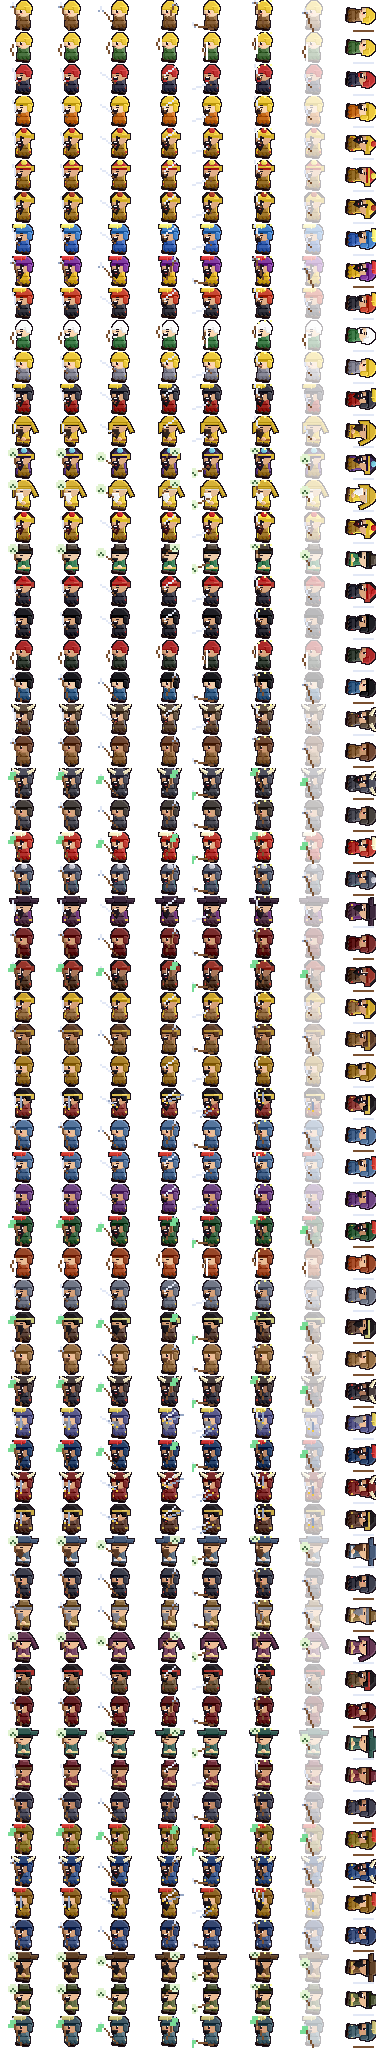
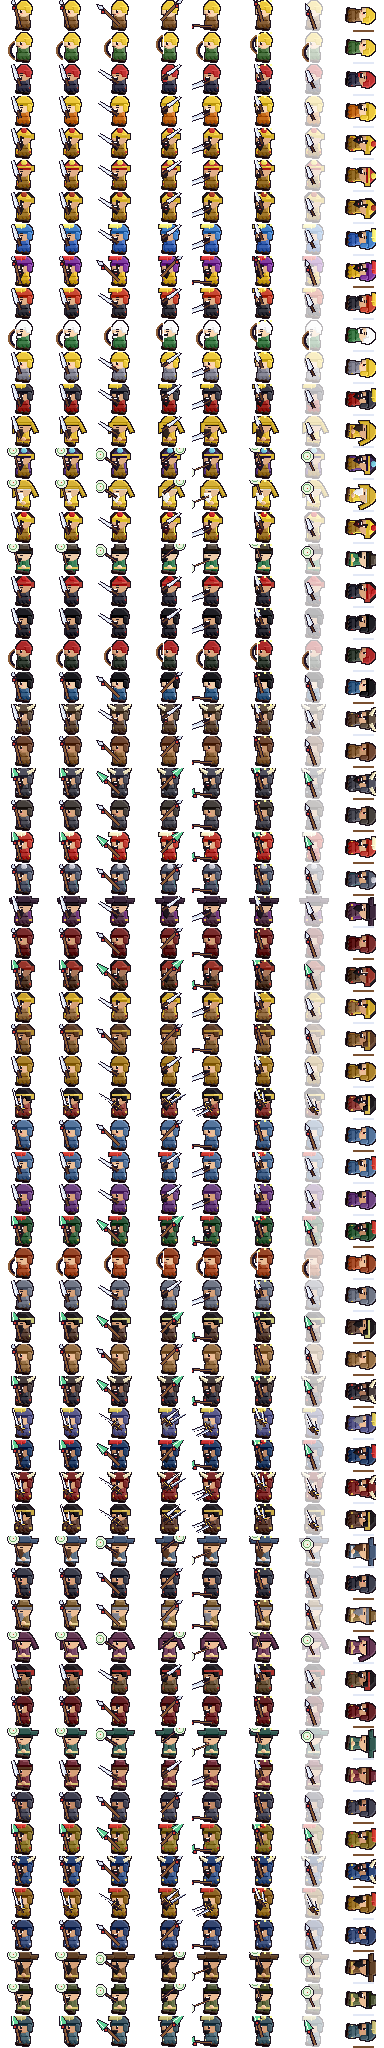
v0.58.2: Weapons painted into battle sprites; fix Runan chapter-1 houses
- Remove the oversized overlay weapon; every party character now has a battle sprite row with a weapon drawn on the body (twin swords, glaive, serpent spear, fan, halberd)
- Rename chapter-1 Runan houses so chapter-4 houses no longer overwrite them

Claude-Session: https://claude.ai/code/session_01JiiwSTohZdt9gnXnKPj9ao

diff --git a/src/battle_scene.js b/src/battle_scene.js
@@ -463,7 +463,6 @@ const CMDS = ['攻擊', '計謀', '道具', '全體攻擊', '防禦', '逃跑', 
         if (hurt && !dead) frame = 6;
         if (dead) frame = 7;
         { const k = E.images.benemy_hd ? 2 : 1; wc.drawImage(E.images.benemy_hd || E.images.benemy16, frame * 24 * k, e.sprite * 16 * k, 24 * k, 16 * k, e.x + dx, e.y, 24, 16); }
-        drawHeldWeapon(wc, e, e.x + dx + 5, e.y + 9, true, dead);
         wc.globalAlpha = 1;
         if (!dead) self.statusFx(wc, e, e.x + 12 + dx, e.y);
       });
@@ -528,7 +527,7 @@ const CMDS = ['攻擊', '計謀', '道具', '全體攻擊', '防禦', '逃跑', 
       }
       if (hurt && !dead) frame = 6;
       if (dead) frame = 7;
-      const row = BATTLE_ROW[u.id];
+      const row = (window.DATA.battleRow || BATTLE_ROW)[u.id];
       if (row !== undefined) {
         const k = E.images.bparty_hd ? 2 : 1;
         wc.drawImage(E.images.bparty_hd || E.images.bparty16, frame * 24 * k, row * 16 * k, 24 * k, 16 * k, u.x + sx + off, u.y, 24, 16);
@@ -538,7 +537,7 @@ const CMDS = ['攻擊', '計謀', '道具', '全體攻擊', '防禦', '逃跑', 
         wc.drawImage(E.images.sprites_hd || E.images.sprites, ((cmd || an) ? 7 : 6) * k2, u.ref.sprite * k2, k2, k2, u.x + sx + off, u.y, 16, 16);
         wc.globalAlpha = 1;
       }
-      drawHeldWeapon(wc, u, u.x + (row !== undefined ? 18 : 12) + sx + off, u.y + 9, false, dead);
+      if (row === undefined) drawHeldWeapon(wc, u, u.x + 12 + sx + off, u.y + 9, false, dead);   // 武器已經畫在戰鬥小人身上；只有沒有專屬戰鬥小人的人才疊上武器
       this.statusFx(wc, u, u.x + 12 + off + sx, u.y);
       if (an && an.kind === 'cast' && !dead) {   // 施法光圈
         const r = 4 + an.t / 60;

diff --git a/tests/houses_test.js b/tests/houses_test.js
@@ -37,9 +37,8 @@ const sleep = ms => new Promise(r => setTimeout(r, ms));
     return bad;
   });
   check('house doors are not shadowed by older warp entries', conflicts.length === 0, conflicts);
-  check('chapter 1 Runan map is isolated from chapter 4 Runan houses',
-    !(DATA.maps.runan_ch1.warps || []).some(w => /^runan_h\\d+$/.test(w.to)),
-    (DATA.maps.runan_ch1.warps || []).filter(w => /^runan_h\\d+$/.test(w.to)).map(w => w.to));
+  const ch1Leak = await page.evaluate(() => { const w = DATA.maps.runan_ch1.warps || []; return { leak: w.filter(x => /^runan_h\d+$/.test(x.to)).map(x => x.to), ok: w.filter(x => /^runan_ch1_h\d+$/.test(x.to)).every(x => DATA.maps[x.to] && DATA.maps[x.to].warps.every(y => y.to === 'runan_ch1')) }; });
+  check('chapter 1 Runan map is isolated from chapter 4 Runan houses', ch1Leak.leak.length === 0 && ch1Leak.ok, ch1Leak);
   // 走進門
   await go('changshe', 5, 6, 'up'); await sleep(200); await tap('ArrowUp', 90, 900);
   let g = await G(); check('door of the scholar house really opens', g.map === 'changshe_h0', g.map);

diff --git a/tests/interior_test.js b/tests/interior_test.js
@@ -37,6 +37,7 @@ const check = (n, ok, x) => { ok ? pass++ : fail++; console.log((ok ? 'PASS ' : 
     const inn = D.dialogue.inn_chenliu_inn[0].choices.map(c => c.label).join('|');
     o.innChoices = inn; o.hasSave = /存檔/.test(inn) && /招收/.test(inn);
     o.noOfficer = !Object.keys(D.maps).some(k => (D.maps[k].npcs || []).some(n => n.id === 'hall_officer'));
+    o.noRow = Object.keys(D.characters).filter(k => typeof D.battleRow[k] !== 'number');
     return o;
   });
   check('no save crystals', r.saveLeft.length === 0, r.saveLeft);
@@ -46,6 +47,7 @@ const check = (n, ok, x) => { ok ? pass++ : fail++; console.log((ok ? 'PASS ' : 
   check('every town has inn', r.noInn.length === 0, r.noInn);
   check('inn has save + hall', r.hasSave, r.innChoices);
   check('no hall officer', r.noOfficer);
+  check('every character has a battle sprite row with weapon', r.noRow.length === 0, r.noRow);
   check('no errors', errors.length === 0, errors);
   console.log(pass + ' passed, ' + fail + ' failed'); await br.close(); process.exit(fail ? 1 : 0);
 })();

diff --git a/data/ch4world.js b/data/ch4world.js
@@ -3,6 +3,12 @@
   const D = window.DATA;
   D.maps.runan_ch1 = D.maps.runan;
   D.maps.wancheng.home = {map: "runan_ch1"};
+  Object.keys(D.maps).filter(k => /^runan_h\d+$/.test(k)).forEach(k => {   // 第一章汝南的房屋改名，避免被第四章同名房屋蓋掉
+    const nk = k.replace("runan", "runan_ch1"), hm = D.maps[k];
+    hm.warps.forEach(w => { if (w.to === "runan") w.to = "runan_ch1"; });
+    D.maps.runan_ch1.warps.forEach(w => { if (w.to === k) w.to = nk; });
+    D.maps[nk] = hm; delete D.maps[k];
+  });
   D.townIds.push("runan_ch1");
   D.worldTowns.runan_ch1 = {x: 80, y: 66, world: "world"};
   D.worldGarrison.runan_ch1 = {flag: "pengtuo_down", banner: "yellow"};

diff --git a/data/battle_rows.js b/data/battle_rows.js
@@ -1,0 +1,2 @@
+// 由 tools/build_char_hd.py 產生：我方人物在 battle_party_hd.png 的列序
+window.DATA.battleRow = {"nyao": 0, "liubei": 1, "guanyu": 2, "zhangfei": 3, "caocao": 4, "luzhi": 5, "zoujing": 6, "dianwei": 7, "xuyou": 8, "zhanghe": 9, "chengyuanzhi": 10, "qushuai": 11, "bocai": 12, "pengtuo": 13, "zhaohong": 14, "hanzhong": 15, "busi": 16, "zhangliang": 17, "zhangbao": 18, "zhangjiao": 19, "duyou": 20, "zhangyan": 21, "zhangchun": 22, "huaxiong": 23, "lubu": 24, "xurong": 25, "zhangkai": 26, "houcheng": 27, "songxian": 28, "chezhou": 29, "yanliang": 30, "wenchou": 31, "gaoshun": 32, "caoren": 33, "shenpei": 34};

diff --git a/index.html b/index.html
@@ -44,6 +44,7 @@
 <script src="data/fx64.js"></script>
 <script src="data/recruit.js"></script>
 <script src="data/inn_patch.js"></script>
+<script src="data/battle_rows.js"></script>
 <script src="data/recruit_skills.js"></script>
 <script src="data/skills_late.js"></script>
 <script src="data/wildgen.js"></script>

diff --git a/src/version.js b/src/version.js
@@ -1,3 +1,3 @@
 // 遊戲版本號。發佈新版時，這裡與 package.json 的 version 必須一起改成相同的值。
-window.GAME_VERSION = '0.58.1';
+window.GAME_VERSION = '0.58.2';
 window.GAME_REPO = 'defance16042-lgtm/chuanyue-sanguo';

diff --git a/tools/weapons_hd.py b/tools/weapons_hd.py
@@ -1,0 +1,100 @@
+"""高清手持武器：直接用 48x32 的格子畫（有輪廓、受光面），武器是人物身上畫好的一部分。
+weapon_hd(draw, kind, grip, tip)：grip／tip 用 24x16 的格內座標（和 build_battle16.POSE 相同），內部放大 2 倍。
+kind：sword sabre swords glaive spear lance halberd fan bow"""
+import math
+
+W_OL = (30, 18, 38, 255)
+W_WOOD, W_WOOD2 = (140, 92, 54, 255), (96, 60, 36, 255)
+W_STEEL, W_STEEL2, W_HI = (214, 224, 240, 255), (136, 154, 188, 255), (255, 255, 255, 255)
+W_GOLD, W_RED, W_JADE = (244, 206, 70, 255), (214, 56, 48, 255), (96, 210, 150, 255)
+
+
+def _pt(a, b, s):
+    return (a[0] + (b[0] - a[0]) * s, a[1] + (b[1] - a[1]) * s)
+
+
+def _unit(a, b):
+    dx, dy = b[0] - a[0], b[1] - a[1]
+    n = math.hypot(dx, dy) or 1
+    return dx / n, dy / n
+
+
+def _shaft(d, a, b, w=2):
+    d.line([a, b], fill=W_OL, width=w + 2)
+    d.line([a, b], fill=W_WOOD, width=w)
+
+
+def _blade(d, p0, p1, w0, w1, col, hi):
+    ux, uy = _unit(p0, p1); nx, ny = -uy, ux
+    pts = [(p0[0] + nx * w0, p0[1] + ny * w0), (p1[0] + nx * w1, p1[1] + ny * w1),
+           (p1[0] - nx * w1, p1[1] - ny * w1), (p0[0] - nx * w0, p0[1] - ny * w0)]
+    d.polygon(pts, fill=col, outline=W_OL)
+    d.line([(p0[0] + nx * w0 * 0.3, p0[1] + ny * w0 * 0.3), (p1[0] + nx * w1 * 0.3, p1[1] + ny * w1 * 0.3)], fill=hi, width=1)
+
+
+def _sword(d, g, t, col=W_STEEL):
+    ux, uy = _unit(g, t); nx, ny = -uy, ux
+    _blade(d, g, t, 1.6, 0.6, col, W_HI)
+    d.line([(g[0] + nx * 3, g[1] + ny * 3), (g[0] - nx * 3, g[1] - ny * 3)], fill=W_OL, width=3)
+    d.line([(g[0] + nx * 2.4, g[1] + ny * 2.4), (g[0] - nx * 2.4, g[1] - ny * 2.4)], fill=W_GOLD, width=1)
+    h = (g[0] - ux * 4, g[1] - uy * 4)
+    d.line([g, h], fill=W_OL, width=3); d.line([g, h], fill=W_WOOD2, width=2)
+
+
+def _pole(d, g, t):
+    ux, uy = _unit(g, t)
+    butt = (g[0] - ux * 6, g[1] + 8)
+    top = (t[0] + ux * 2, t[1] + uy * 2)
+    _shaft(d, butt, top, 2)
+    return butt, top, ux, uy
+
+
+def _tassel(d, p):
+    d.rectangle([p[0] - 1.5, p[1] + 1, p[0] + 1.5, p[1] + 4], fill=W_RED, outline=W_OL)
+
+
+def weapon_hd(d, kind, grip, tip):
+    g = (grip[0] * 2, grip[1] * 2); t = (tip[0] * 2, tip[1] * 2)
+    ux, uy = _unit(g, t); nx, ny = -uy, ux
+    if kind == "sword":
+        _sword(d, g, (t[0] + ux * 3, t[1] + uy * 3))
+    elif kind == "swords":            # 雙股劍：兩把一前一後
+        _sword(d, (g[0] - 4, g[1] + 3), (t[0] - 7, t[1] + 4), W_STEEL2)
+        _sword(d, g, (t[0] + ux * 3, t[1] + uy * 3))
+    elif kind == "sabre":             # 大刀：寬刃
+        b = (g[0] + ux * 3, g[1] + uy * 3)
+        e = (g[0] - ux * 4, g[1] - uy * 4)
+        d.line([e, b], fill=W_OL, width=4); d.line([e, b], fill=W_WOOD2, width=2)
+        _blade(d, b, (t[0] + ux * 3, t[1] + uy * 3), 2.4, 1.4, W_STEEL, W_HI)
+    elif kind == "glaive":            # 青龍偃月刀：長柄、寬大的偃月刃、紅纓
+        butt, top, ux, uy = _pole(d, g, t)
+        bs = _pt(butt, top, 0.72)
+        _blade(d, bs, (top[0] + ux * 4, top[1] + uy * 4), 4.2, 1.2, W_JADE, W_HI)
+        _tassel(d, bs)
+    elif kind in ("spear", "lance"):  # 蛇矛／長槍：長柄加葉形矛頭、紅纓
+        butt, top, ux, uy = _pole(d, g, t)
+        head = _pt(butt, top, 0.84)
+        w, f = (2.4, 3) if kind == "spear" else (2, 2)
+        pts = [head, (head[0] + nx * w + ux * f, head[1] + ny * w + uy * f), (top[0] + ux * 5, top[1] + uy * 5), (head[0] - nx * w + ux * f, head[1] - ny * w + uy * f)]
+        d.polygon(pts, fill=W_STEEL, outline=W_OL)
+        d.point(_pt(head, top, 0.6), fill=W_HI)
+        _tassel(d, head)
+    elif kind == "halberd":           # 方天畫戟：矛尖加兩側月牙刃
+        butt, top, ux, uy = _pole(d, g, t)
+        head = _pt(butt, top, 0.8)
+        d.polygon([head, (top[0] + ux * 4, top[1] + uy * 4), (head[0] + nx * 2, head[1] + ny * 2)], fill=W_STEEL, outline=W_OL)
+        for sgn in (1, -1):
+            d.polygon([(head[0] + sgn * nx * 5 - ux * 2, head[1] + sgn * ny * 5 - uy * 2), (head[0] + sgn * nx, head[1] + sgn * ny + uy * 2), (head[0] - sgn * nx, head[1] - sgn * ny)], fill=W_STEEL2, outline=W_OL)
+        _tassel(d, head)
+    elif kind == "fan":               # 羽扇：握柄加圓形扇面
+        c = (t[0] + ux * 2, t[1] + uy * 2)
+        e = (g[0] - ux * 3, g[1] - uy * 3)
+        d.line([e, c], fill=W_OL, width=3); d.line([e, c], fill=W_WOOD, width=1)
+        d.ellipse([c[0] - 6, c[1] - 6, c[0] + 6, c[1] + 6], fill=(236, 246, 224, 255), outline=W_OL)
+        d.ellipse([c[0] - 3.5, c[1] - 3.5, c[0] + 3.5, c[1] + 3.5], outline=(110, 170, 110, 255))
+        d.point(c, fill=W_RED)
+    elif kind == "bow":
+        c = (g[0] + 2, g[1])
+        d.arc([c[0] - 7, c[1] - 9, c[0] + 7, c[1] + 9], 270, 90, fill=W_OL, width=4)
+        d.arc([c[0] - 7, c[1] - 9, c[0] + 7, c[1] + 9], 270, 90, fill=W_WOOD, width=2)
+        d.line([(c[0], c[1] - 9), (c[0], c[1] + 9)], fill=W_HI, width=1)

diff --git a/tools/build_char_hd.py b/tools/build_char_hd.py
@@ -12,6 +12,7 @@ import build_assets as BA
 import build_battle16 as BB
 import build_zhoucang as ZC
 import recruit_chars as RCH
+from weapons_hd import weapon_hd
 from char_styles import STYLES
 
 ROOT = Path(__file__).resolve().parents[1]
@@ -341,7 +342,7 @@ def row_frames_hd(kw, kind):
             body = base[0].rotate(90, expand=True)
             cell.alpha_composite(body, (8, 0))
             d = ImageDraw.Draw(cell)
-            col = BB.WOOD if kind in ("glaive", "spear") else BB.STEEL
+            col = BB.WOOD if kind in ("glaive", "spear", "lance", "halberd") else BB.STEEL
             d.line([(10, 30), (30, 30)], fill=col, width=2)
             cells.append(cell); continue
         grip, tip, dx = BB.POSE[frame] if frame in BB.POSE else BB.POSE[0]
@@ -349,10 +350,9 @@ def row_frames_hd(kw, kind):
         if frame == 6:
             body = BB.flash(body)
         cell.alpha_composite(body, (8 + dx * 2, 0))
-        # 武器先畫在 24x16 的暫存圖，放大 2 倍後疊上去（線條變成 2px 粗，跟高清身體相稱）
+        weapon_hd(ImageDraw.Draw(cell), kind, (grip[0] + dx, grip[1]), (tip[0] + dx, tip[1]))
         wp = Image.new("RGBA", (BB.CW, BB.CH), (0, 0, 0, 0))
         wd = ImageDraw.Draw(wp)
-        BB.weapon(wd, kind, grip, tip, frame)
         if frame == 4:
             wd.arc([12, 1, 28, 17], 300, 70, fill=BB.WHITE, width=1)
         if frame == 5:
@@ -384,9 +384,25 @@ def battle_sheet(rows, mirror=False):
     return out
 
 
+KIND_OF = {"劍": "sword", "刀": "sabre", "矛": "spear", "槍": "lance", "扇": "fan"}
+KIND_OVERRIDE = {"nyao": "fan", "liubei": "swords", "guanyu": "glaive", "zhangfei": "spear", "lubu": "halberd", "dianwei": "halberd"}
+
+
+def party_sheet():
+    """我方戰鬥小人：每位可入隊的人物一列（外觀跟地圖小人一致，武器直接畫在身上）。
+    列序＝data/battle_rows.js 的 D.battleRow；人物清單在 tools/party_chars.json（id -> [地圖列, 武器種類]）。"""
+    import json
+    chars = json.load(open(ROOT / "tools" / "party_chars.json", encoding="utf8"))
+    rows_kw = [styled(n, kw) for n, kw in BA.CHARACTERS] + [styled('zhoucang', ZC.KW)] + [styled(i, k) for i, k, _w in RCH.RC]
+    ids = list(chars.keys())
+    battle_sheet([(rows_kw[chars[c][0]], KIND_OVERRIDE.get(c) or KIND_OF.get(chars[c][1], "sword")) for c in ids]).save(OUT / "battle_party_hd.png")
+    js = "// 由 tools/build_char_hd.py 產生：我方人物在 battle_party_hd.png 的列序\nwindow.DATA.battleRow = " + json.dumps({c: i for i, c in enumerate(ids)}, ensure_ascii=False) + ";\n"
+    (ROOT / "data" / "battle_rows.js").write_text(js, encoding="utf8")
+
+
 def main():
     sprite_rows().save(OUT / "sprites_hd.png")
-    battle_sheet([(auto(k), w) for k, w in BB.PARTY]).save(OUT / "battle_party_hd.png")
+    party_sheet()
     battle_sheet([(auto(k), w) for k, w in BB.ENEMIES] + [(styled('zhoucang', ZC.KW), 'glaive')] + [(styled(i, k), w) for i, k, w in RCH.RC], mirror=True).save(OUT / "battle_enemy_hd.png")
     print("ok")
 

diff --git a/tools/build_ch4.py b/tools/build_ch4.py
@@ -176,6 +176,12 @@ out = ['// 第四章「許都風雲」大地圖與城鎮（由 tools/build_ch4.p
        '(function () {', '  const D = window.DATA;',
        '  D.maps.runan_ch1 = D.maps.runan;',
        '  D.maps.wancheng.home = {map: "runan_ch1"};',
+       '  Object.keys(D.maps).filter(k => /^runan_h\\d+$/.test(k)).forEach(k => {   // 第一章汝南的房屋改名，避免被第四章同名房屋蓋掉',
+       '    const nk = k.replace("runan", "runan_ch1"), hm = D.maps[k];',
+       '    hm.warps.forEach(w => { if (w.to === "runan") w.to = "runan_ch1"; });',
+       '    D.maps.runan_ch1.warps.forEach(w => { if (w.to === k) w.to = nk; });',
+       '    D.maps[nk] = hm; delete D.maps[k];',
+       '  });',
        '  D.townIds.push("runan_ch1");',
        '  D.worldTowns.runan_ch1 = {x: 80, y: 66, world: "world"};',
        '  D.worldGarrison.runan_ch1 = {flag: "pengtuo_down", banner: "yellow"};',

diff --git a/docs/HANDOFF.md b/docs/HANDOFF.md
@@ -223,3 +223,9 @@ CI 使用 Node.js 22。Playwright 需安裝 Chromium 才能執行瀏覽器測試
 - data/inn_patch.js（recruit.js 之後載入）：關隘 wg1–5／wuchao 標 fort:true；移除所有 'save' 物件；驛館掌櫃對話（keeper、inn_*）加上「存檔（免費休息）」act {save:true} 與「招收人物」act {hall:true}；沒有驛館房子的城鎮（第一、二章 13 座）放「驛吏」NPC（inn_clerk）。D.townHasInn(id) 供測試檢查。原 hall_officer 與 loadMap 自動建的存檔水晶已移除。
 - scenes.js：cave／pass／fort 地圖的 chest／urn／tablet／spring／lever 皆為實體障礙；泉水用 flag 'spring_<map>_<x>_<y>' 只能用一次並消失；新增 act.save。
 - 測試：tests/interior_test.js（8 項）；play_test 改成直接開存檔畫面；其餘測試的 hall_officer 檢查改為 D.townHasInn。
+
+## v0.58.2 戰鬥小人武器與汝南房屋
+- tools/weapons_hd.py：高清手持武器（sword／swords／sabre／glaive／spear／lance／halberd／fan／bow），直接畫在 48×32 的戰鬥格上；build_char_hd.py 的 row_frames_hd 改用它（敵我雙方都是）。
+- 我方戰鬥小人改成每位人物一列：tools/party_chars.json（id→[地圖列, 武器種類]）→ build_char_hd.py party_sheet() 產生 battle_party_hd.png 與 data/battle_rows.js（D.battleRow）。新增可入隊人物時，把 id 加進 party_chars.json（前 6 列順序不要動）再重新產生。格子大小不變（48×32）。
+- battle_scene.js：不再疊 drawHeldWeapon，只有沒有戰鬥列的人才用。
+- 汝南：ch4world.js 把第一章汝南房屋改名 runan_ch1_h*（tools/build_ch4.py 同步），避免被第四章同名房屋蓋掉。
